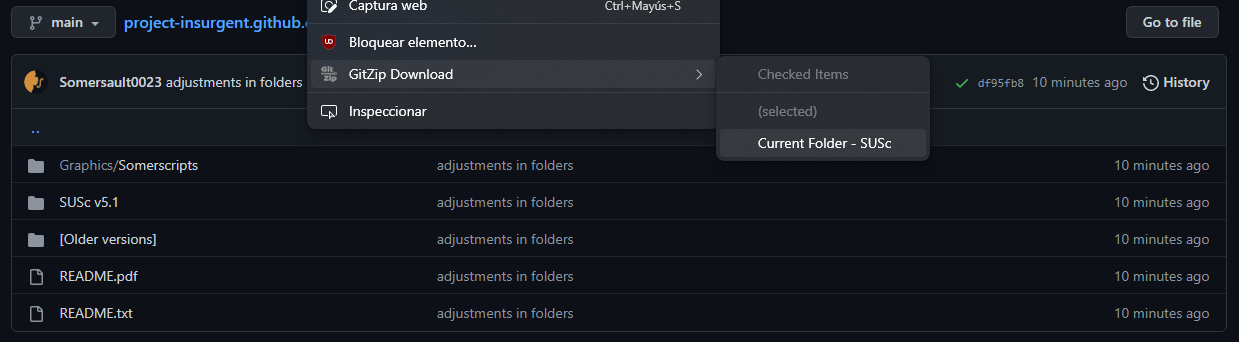
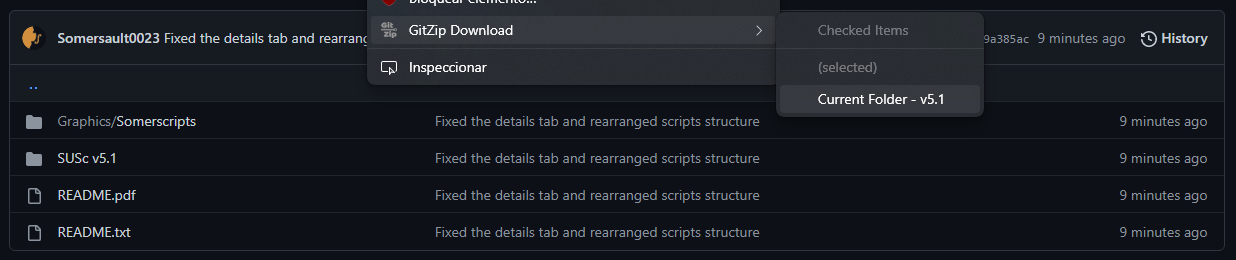
Documentation field added

diff --git a/Somersault/js/test.js b/Somersault/js/test.js
@@ -140,15 +140,14 @@ function createItemBox(section,data,rowId){
 }
 
 var site = "https://github.com/Project-Insurgent/project-insurgent.github.com/tree/main/Somersault/";
-var resource = "";
 
 var downloadNote = function() {
-	return "<strong>Note:</strong> For getting the zip file, install this <a  class='myLink' href='https://stackoverflow.com/questions/7106012/download-a-single-folder-or-directory-from-a-github-repo/33753575#33753575' target=_blank>extension</a>. Then right click on the 'vX.X' directory and click <strong>'gitZip Download'->'Current Folder'</strong>.<br />";
+	return "<strong>Note:</strong> For getting the zip file, install this <a  class='myLink' href='https://stackoverflow.com/questions/7106012/download-a-single-folder-or-directory-from-a-github-repo/33753575#33753575' target=_blank>extension</a>. Then right click anywhere on the directory and click <strong>'gitZip Download'->' Current folder - vX.X'</strong>.<br />";
 };
 
-var defaultInstr = function() {
+var defaultInstr = function(resource,version) {
 	return ""+
-	"0. Download this <a class='myLink' href="+site+currentType+'/'+resource+" target=_blank>zip</a>.<br />"+
+	"0. Download this <a class='myLink' href="+site+currentType+'/'+resource+'/'+version+" target=_blank>zip</a>.<br />"+
 	"1. Select all the folders in the zip but the READMEs.<br />"+
 	"2. Uncompress them directly into your game root folder.<br />";
 };
@@ -158,8 +157,8 @@ var createInstructionBody = function(data) {
 	ret.className += "col-xs-12 instructions";
 	
 	resource = data["ID"];
-	var instr = data["instr"] ? (data["addDefInstr"] ? defaultInstr()+data["instr"]+downloadNote() : data["instr"]) : 
-		defaultInstr()+downloadNote();
+	var instr = data["instr"] ? (data["addDefInstr"] ? defaultInstr(data["ID"],data["version"])+data["instr"]+downloadNote() : data["instr"]) : 
+		defaultInstr(data["ID"],data["version"])+downloadNote();
 
 	
 	ret.innerHTML += instr;
@@ -243,6 +242,20 @@ var showDetailsTab = function(data){
 		descRow.append(descBody);
 		dataTab.append(descRow);
 	}
+	
+	var docRow = document.createElement("div");
+	docRow.className += "row detailRow";
+	
+	var docTitle = document.createElement("div");
+	docTitle.className += "col-xs-12 title";
+	docTitle.innerHTML += "Documentation:";
+	
+	var documentation = document.createElement("div");
+	documentation.className += "col-xs-12";
+	documentation.innerHTML += "For the full documentation of this plugin, click <a class='myLink' href="+site+currentType+'/'+data["ID"]+'/'+"README.pdf target=_blank>here</a>";
+	dataTab.append(docRow);
+	docRow.append(docTitle);
+	docRow.append(documentation);
 	
 	if (data["instr"] || data["addDefInstr"]){
 		var instrRow = document.createElement("div");
